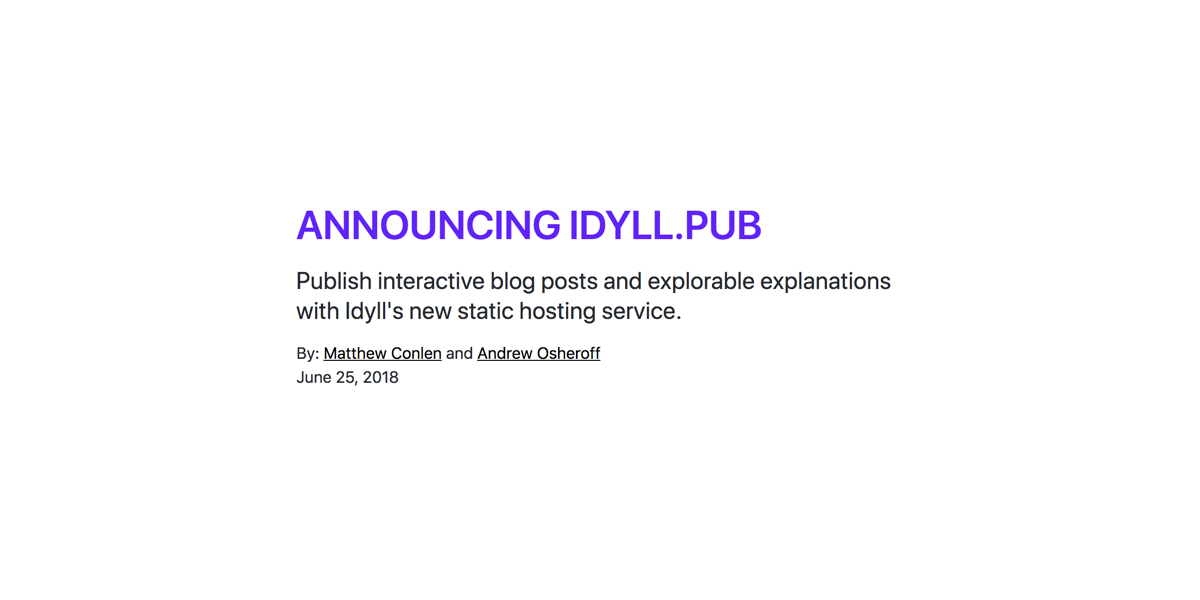
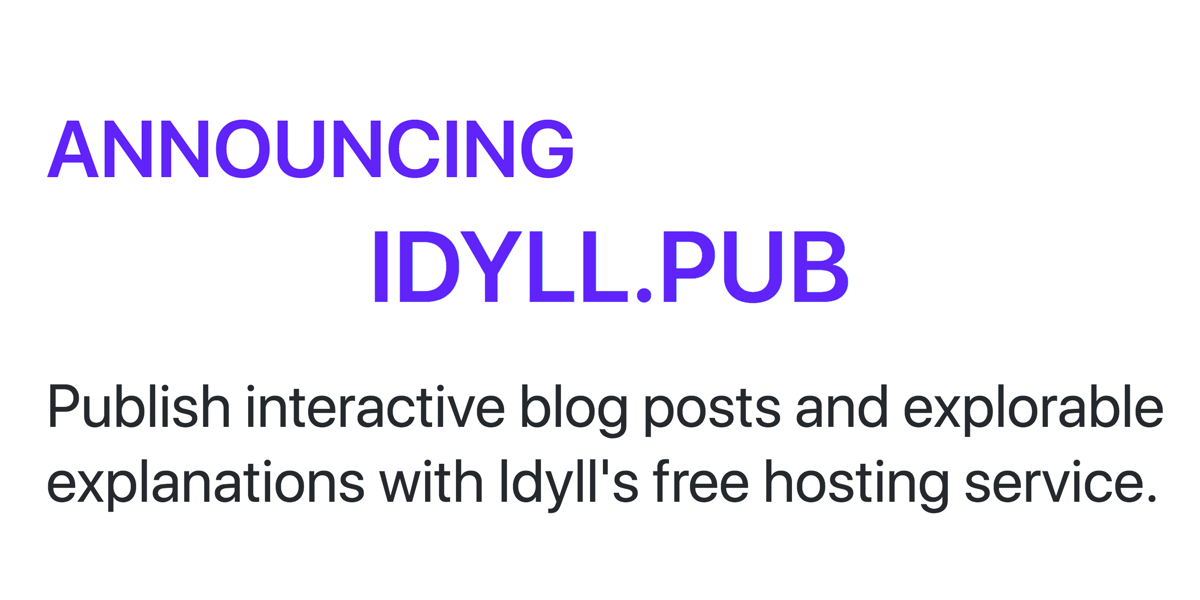
update copy, share image, styles

Changed region(s): [[0.0308, 0.57, 0.9867, 0.87], [0.2467, 0.33, 0.74, 0.54], [0.0308, 0.18, 0.4933, 0.3]]

diff --git a/components/default/header.js b/components/default/header.js
@@ -5,7 +5,7 @@ class Header extends React.PureComponent {
     return (
       <div className={'article-header'}>
         <h1 className={'hed'}>
-          {this.props.title}
+          <a href="." style={{ color: '#6023fb', textDecoration: 'none'}}><span style={{fontSize: '2rem'}}>Announcing</span><br/><span style={{display: 'block', marginLeft:'28%'}}>idyll.pub</span></a>
         </h1>
         {
           this.props.subtitle && (

diff --git a/styles.css b/styles.css
@@ -45,6 +45,8 @@ h2.dek {
 .fixed .idyll-stepper-control-button-next,
 .fixed .idyll-stepper-control-button-previous {
   width: 40px;
+  color: black;
+  background: rgba(255, 255, 255, 0.7);
 }
 
 
